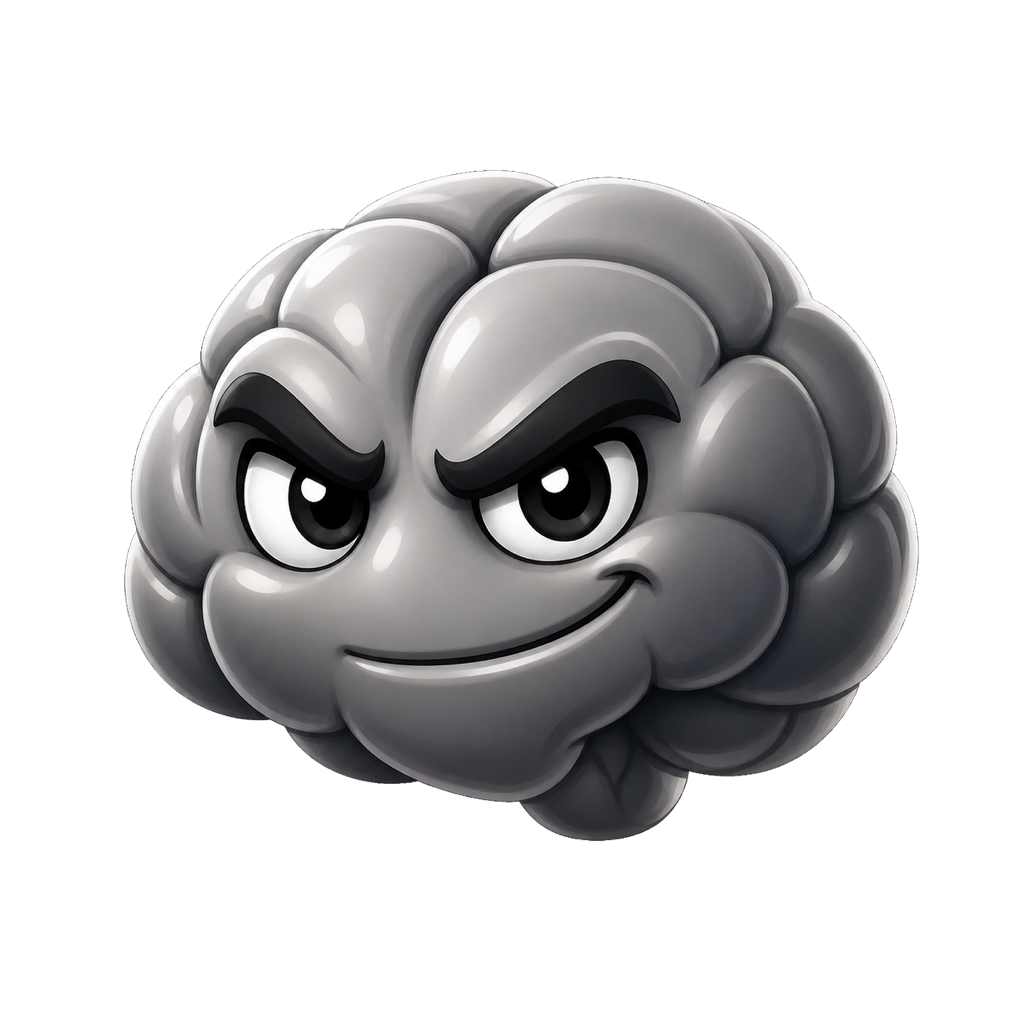
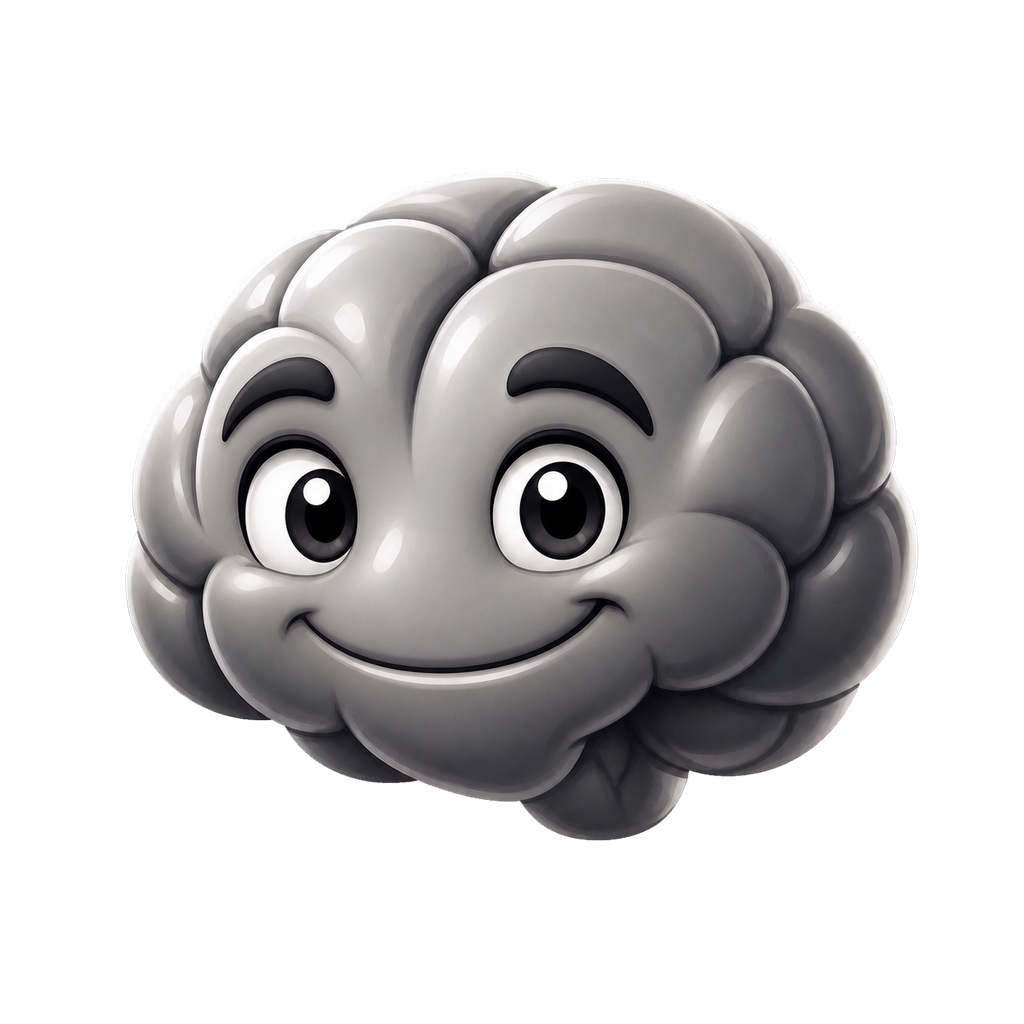
Make template mascot friendlier

Changed region(s): [[0.1875, 0.3125, 0.6875, 0.6875], [0.2812, 0.2188, 0.3438, 0.25], [0.3438, 0.1875, 0.375, 0.2188]]

diff --git a/BRANDING.md b/BRANDING.md
@@ -22,7 +22,7 @@ reference. A custom icon should preserve these traits:
 - square 1024×1024 transparent PNG with fully transparent corners;
 - one centered, connected character silhouette with generous padding;
 - an unmistakable face that remains expressive at 64 pixels;
-- bold brows, large glossy eyes, and a confident or friendly asymmetric smile;
+- softly arched expressive brows, large bright glossy eyes, and a warm smile;
 - premium rounded 3D volume with crisp pearly highlights;
 - tactile, highly polished, vaguely iOS-emoji-like rendering;
 - a subject and two- or three-color palette derived from the confirmed name;
@@ -63,7 +63,7 @@ Use case: logo-brand
 Asset type: transparent square second-brain character icon and future pet reference
 Input image: the template mascot is a character-family style reference only
 Primary request: create a character for “[CONFIRMED NAME]” represented by [SUBJECT]
-Face: bold expressive brows, large glossy eyes, confident asymmetric smile
+Face: softly arched expressive brows, large bright glossy eyes, warm confident smile
 Style: premium rounded glossy 3D emoji-like character with crisp pearly highlights
 Composition: one centered connected silhouette, generous padding, readable at 64px
 Palette: [TWO OR THREE COLORS DERIVED FROM THE NAME OR PURPOSE]
